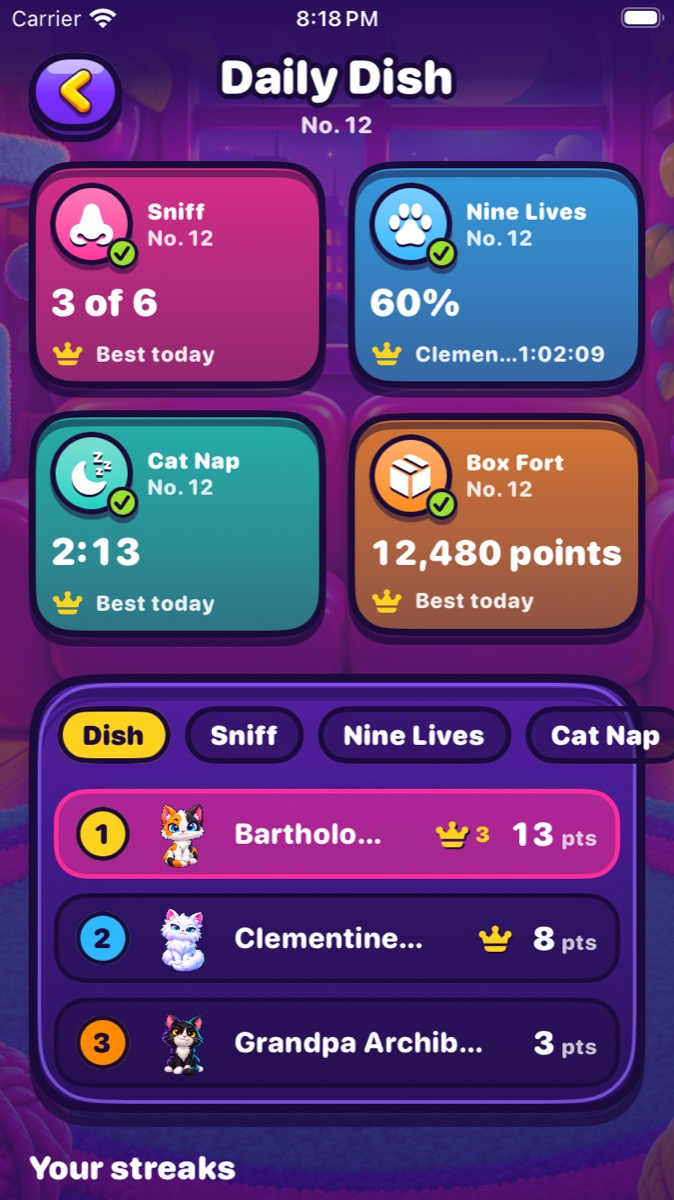
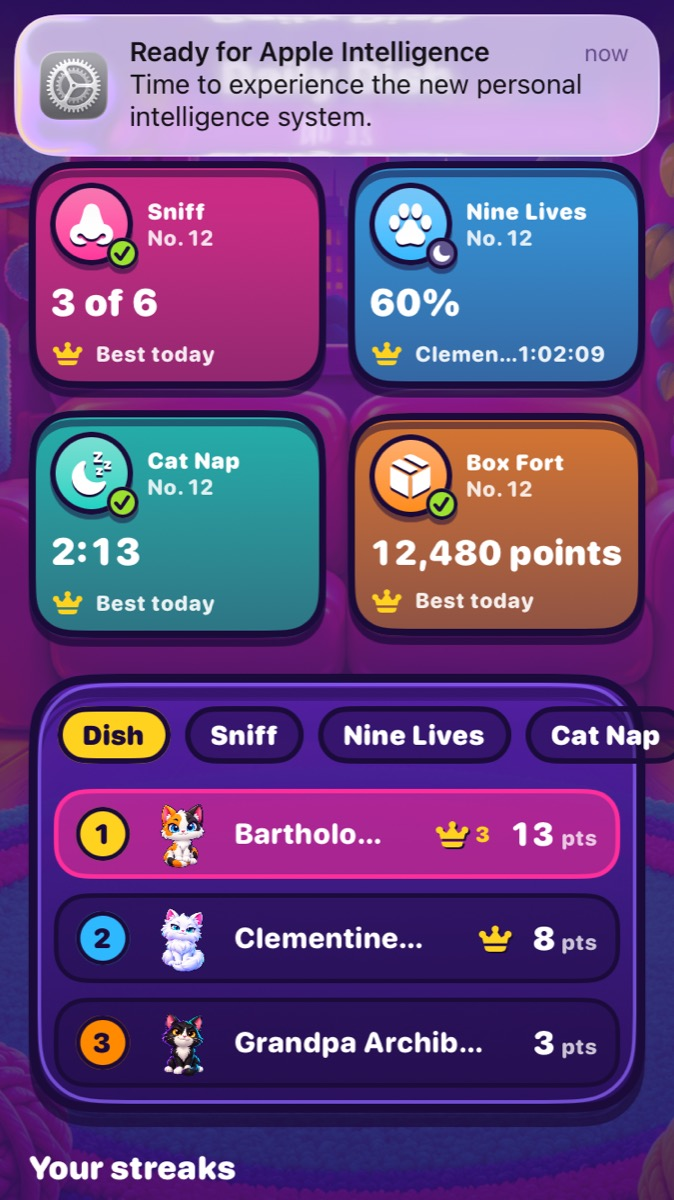
Home and the Dish mark an unfinished puzzle with a moon, not a check
Only a solved puzzle (or Box Fort's ending) gets the green check on its
treat. One you didn't finish gets the same moon the board rows use.

Changed region(s): [[0.0, 0.0, 0.997, 0.1542], [0.6231, 0.185, 0.6855, 0.2467]]

diff --git a/apps/play-ios/Pounce/Daily/DailyArt.swift b/apps/play-ios/Pounce/Daily/DailyArt.swift
@@ -17,11 +17,14 @@ enum DailyArt {
     }
 }
 
-/// A game's treat: its color disc, ink ring and glyph, with a lip of shadow. Done: a check badge.
+/// A game's treat: its color disc, ink ring and glyph, with a lip of shadow. Done (solved, or Box
+/// Fort's ending): a check badge. Ended without finishing: a neutral moon, as on the board's rows,
+/// so it never reads as solved.
 struct DailyTreat: View {
     let game: DailyGameInfo
     var side: CGFloat = 64
     var done = false
+    var ended = false
 
     var body: some View {
         let tint = DailyArt.tint(game)
@@ -38,12 +41,15 @@ struct DailyTreat: View {
                     .padding(side * 0.24)
             }
             .overlay(alignment: .bottomTrailing) {
-                if done {
-                    Image(systemName: "checkmark")
+                if done || ended {
+                    Image(systemName: done ? "checkmark" : "moon.fill")
                         .font(.system(size: side * 0.2, weight: .black))
-                        .foregroundStyle(Palette.ink)
+                        .foregroundStyle(done ? Palette.ink : .white)
                         .frame(width: side * 0.38, height: side * 0.38)
-                        .background(Circle().fill(Palette.lime).overlay(Circle().strokeBorder(Palette.ink, lineWidth: max(2, side * 0.04))))
+                        .background(
+                            Circle().fill(done ? Palette.lime : Palette.night.mix(with: .white, by: 0.3))
+                                .overlay(Circle().strokeBorder(Palette.ink, lineWidth: max(2, side * 0.04))))
+                        .compositingGroup()
                         .offset(x: side * 0.06, y: side * 0.04)
                 }
             }

diff --git a/apps/play-ios/Pounce/Daily/DailyEndView.swift b/apps/play-ios/Pounce/Daily/DailyEndView.swift
@@ -34,7 +34,7 @@ struct DailyEndView: View {
     var body: some View {
         ScrollView(.vertical, showsIndicators: false) {
             VStack(spacing: roomy ? 24 : 18) {
-                DailyTreat(game: game, side: roomy ? 110 : 84, done: result.outcome.finished)
+                DailyTreat(game: game, side: roomy ? 110 : 84, done: result.outcome.finished, ended: true)
                     .padding(.top, 12)
                 OutlinedText(headline, size: roomy ? 44 : 34, fill: result.outcome.finished ? Palette.lime : .white, width: 4)
                     .accessibilityIdentifier("daily.end.headline")

diff --git a/apps/play-ios/Pounce/Daily/DishScreen.swift b/apps/play-ios/Pounce/Daily/DishScreen.swift
@@ -146,7 +146,7 @@ struct DishScreen: View {
         } label: {
             VStack(spacing: 8) {
                 HStack(spacing: 8) {
-                    DailyTreat(game: game, side: roomy ? 58 : 46, done: result != nil)
+                    DailyTreat(game: game, side: roomy ? 58 : 46, done: result?.outcome.finished == true, ended: result != nil)
                     VStack(alignment: .leading, spacing: 0) {
                         Text(verbatim: game.title)
                             .font(.system(size: roomy ? 22 : 18, weight: .black, design: .rounded))

diff --git a/apps/play-ios/Pounce/Daily/DishBand.swift b/apps/play-ios/Pounce/Daily/DishBand.swift
@@ -107,7 +107,7 @@ struct DishBand: View {
             model.playDaily(game.id)
         } label: {
             VStack(spacing: 6) {
-                DailyTreat(game: game, side: side, done: result != nil)
+                DailyTreat(game: game, side: side, done: result?.outcome.finished == true, ended: result != nil)
                     .overlay(alignment: .topTrailing) {
                         if row?.playing != nil, result == nil {
                             Circle().fill(Palette.yellow).overlay(Circle().strokeBorder(Palette.ink, lineWidth: 2))
